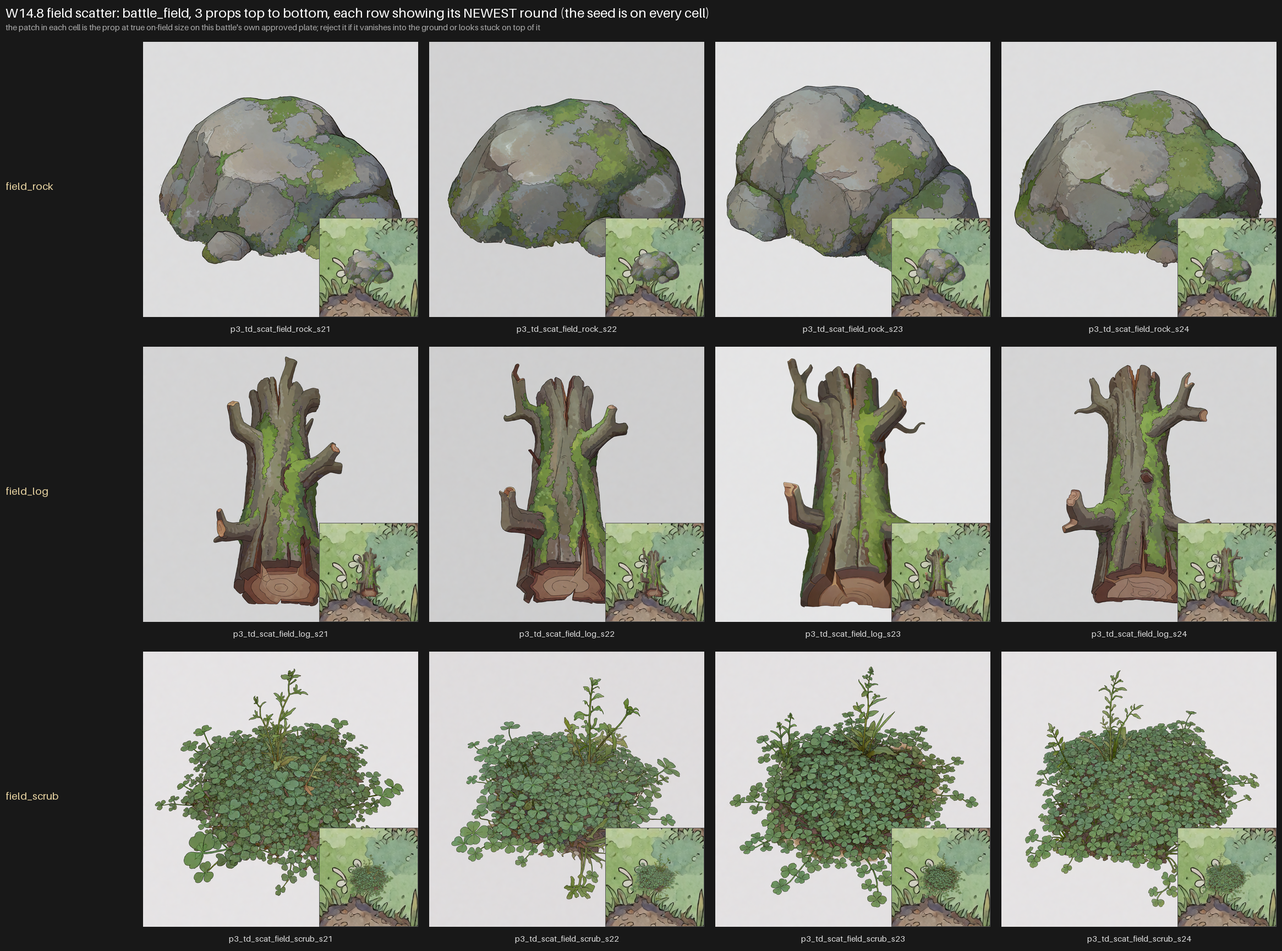
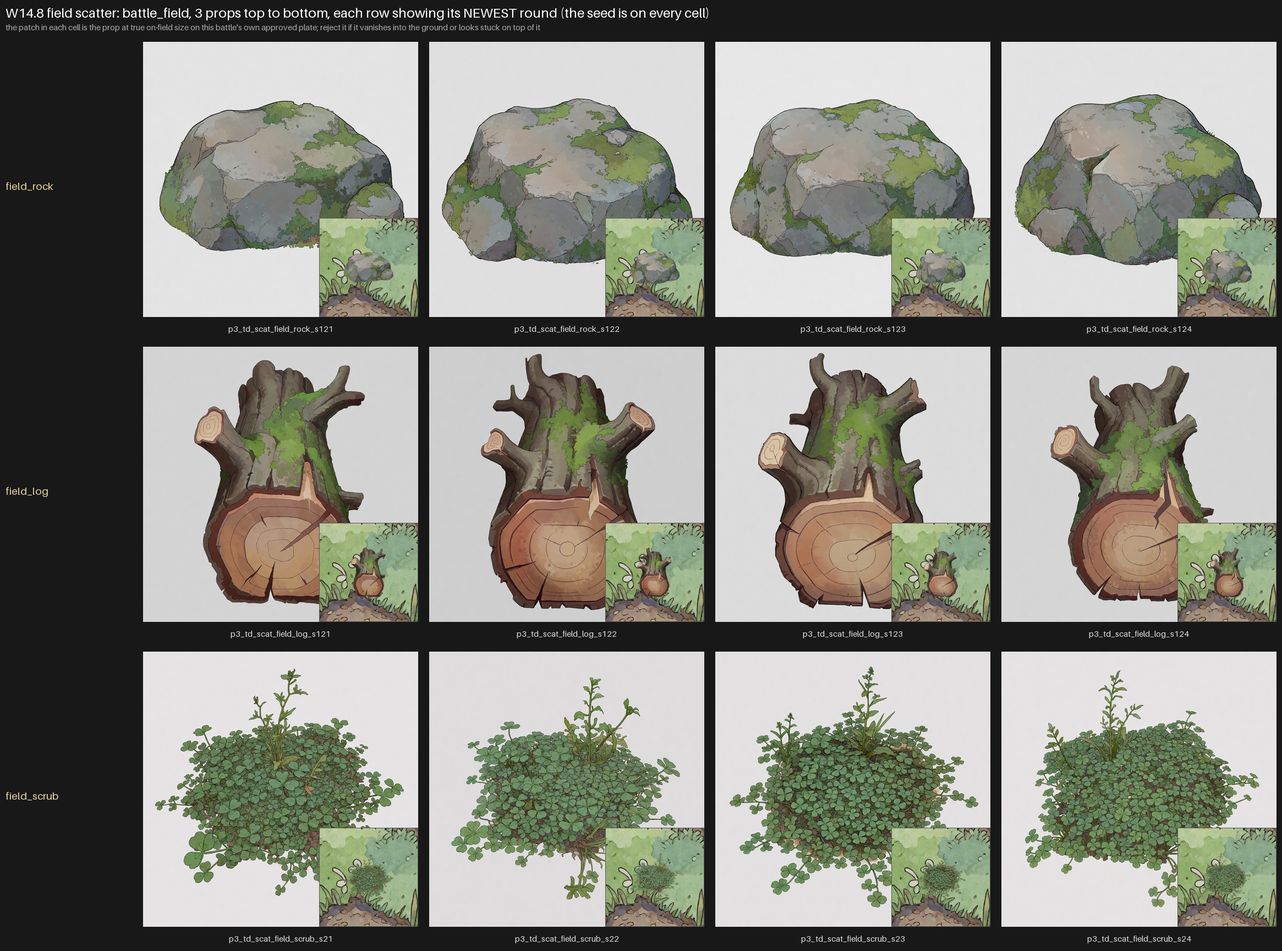
W14.8 scatter rounds 2-3: three camera strategies, and four cells that answer to none
Round 2 (top-face clause) fixed the crate and moved none of the five solid objects.
Round 3 probed a third strategy on the survivors: the BATTLE PLATES' own camera
clause (photographed flat from straight above, orthographic) in place of the unit
class's overhead wording, plus a register shift that describes the sprite as the
shape the object covers on the ground rather than as a prop portrait. That fixed
civwar sandbags outright and gave hidden_vent a ragged outline instead of the
rectangular tile round 2 produced.

field_rock, field_log, hidden_slab and hidden_stump have now failed three
generations under three different strategies, always identically: a profile boulder,
a standing trunk where a fallen log was asked for, a three-quarter boulder pile, a
stump seen from its side. That is the §8.3 stop signal, so wording rounds stop here.

The pattern across all three rounds is the finding. Every prop that renders genuinely
overhead is a SPREAD OF MANY PARTS or a flat mark; every prop that fails is a single
solid lump with a canonical side silhouette. scat_tax_stump is the lone exception,
which is why a stump was worth trying twice more. The next lever is a subject change
and that belongs to the human, so the four cells are parked and
phase3_scatter_topdown_solid_object_failure.png is the evidence: four cells across,
three strategies wide, one failure mode.

17 of 21 rows are now pickable; the picks file tracks both halves.

diff --git a/insignificant-game/assets/pipeline/phase3_scatter_topdown_batch.py b/insignificant-game/assets/pipeline/phase3_scatter_topdown_batch.py
@@ -79,6 +79,17 @@ _ISO = "centered, isolated on a plain light gray background"
 # are both read through a face turned at the camera).
 _TOP = "its top surface turned toward the viewer and filling almost the whole of its outline"
 
+# ROUND 2 MOVED NONE OF THE FIVE SOLID OBJECTS: `_TOP` bought a slightly flatter boulder and
+# nothing else, and the "fallen log" stated as a bounded pair of sawn ends came back as a standing
+# trunk with one end face at the bottom of the frame. So the camera clause itself is the suspect,
+# not the amount of detail piled on top of it. `_OVERHEAD` is the UNIT class's wording, proven on
+# figures, and a figure seen from above still looks like a figure; a prop has no such luck. The
+# clause below is the BATTLE PLATE's wording instead, which is the phrasing already proven to pull
+# GROUND subjects flat on this checkpoint, plus a register shift borrowed from the same finding:
+# describe the sprite as the shape the object covers on the ground rather than as a prop portrait.
+_ORTHO = ("photographed flat from straight above, orthographic, its outline drawn as the shape it "
+          "covers on the ground")
+
 # The props with no relief of their own, which take `_FLAT_FORM`. A prop earns a place here by
 # failing as an object, not by looking flat in prose.
 FLAT = {"scat_riot_scorch", "scat_riot_crate", "scat_hidden_vent"}
@@ -121,7 +132,8 @@ SCATTER = {
     "scat_hidden_vent":  ("battle_hidden", "a short jagged crack splitting dark grey-green scorched "
                                            "ground, fine pale ash banked along its lips, a cold "
                                            "pale green luminous light lying deep down inside the "
-                                           "crack, cool green and grey throughout"),
+                                           "crack, cool green and grey throughout, its broken "
+                                           "outline ragged and uneven all the way around"),
     # rewritten to mirror scat_tax_stump, the one stump that rendered genuinely overhead: the cut
     # face is the subject and the roots spread flat away from it
     "scat_hidden_stump": ("battle_hidden", "a low charred blackened tree stump sawn off close to "
@@ -181,9 +193,8 @@ SCATTER = {
 
 def prompt_for(pid: str) -> str:
     form = _FLAT_FORM if pid in FLAT else _FORM
-    top = f", {_TOP}" if pid in TOP else ""
-    return (f"{SCATTER[pid][1]}, {form}, game scenery prop sprite, {_OVERHEAD}{top}, "
-            f"{_LIT}, {_ISO}")
+    camera = f"{_ORTHO}, {_TOP}" if pid in TOP else _OVERHEAD
+    return f"{SCATTER[pid][1]}, {form}, game scenery prop sprite, {camera}, {_LIT}, {_ISO}"
 
 
 def load_state() -> dict:
